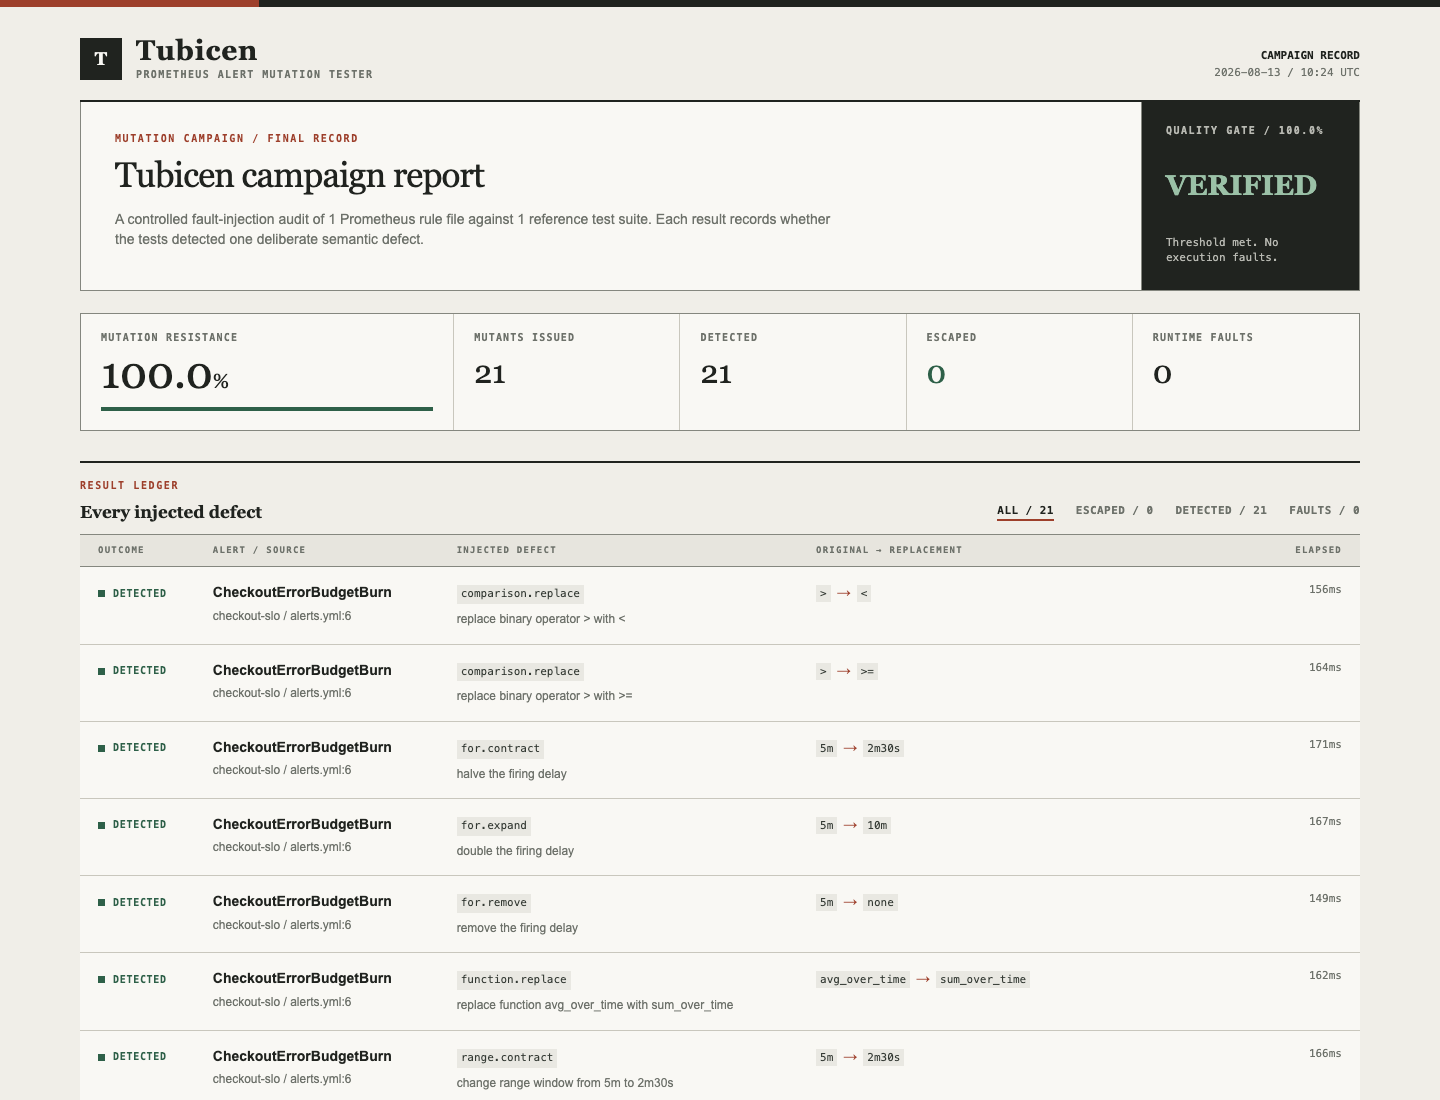
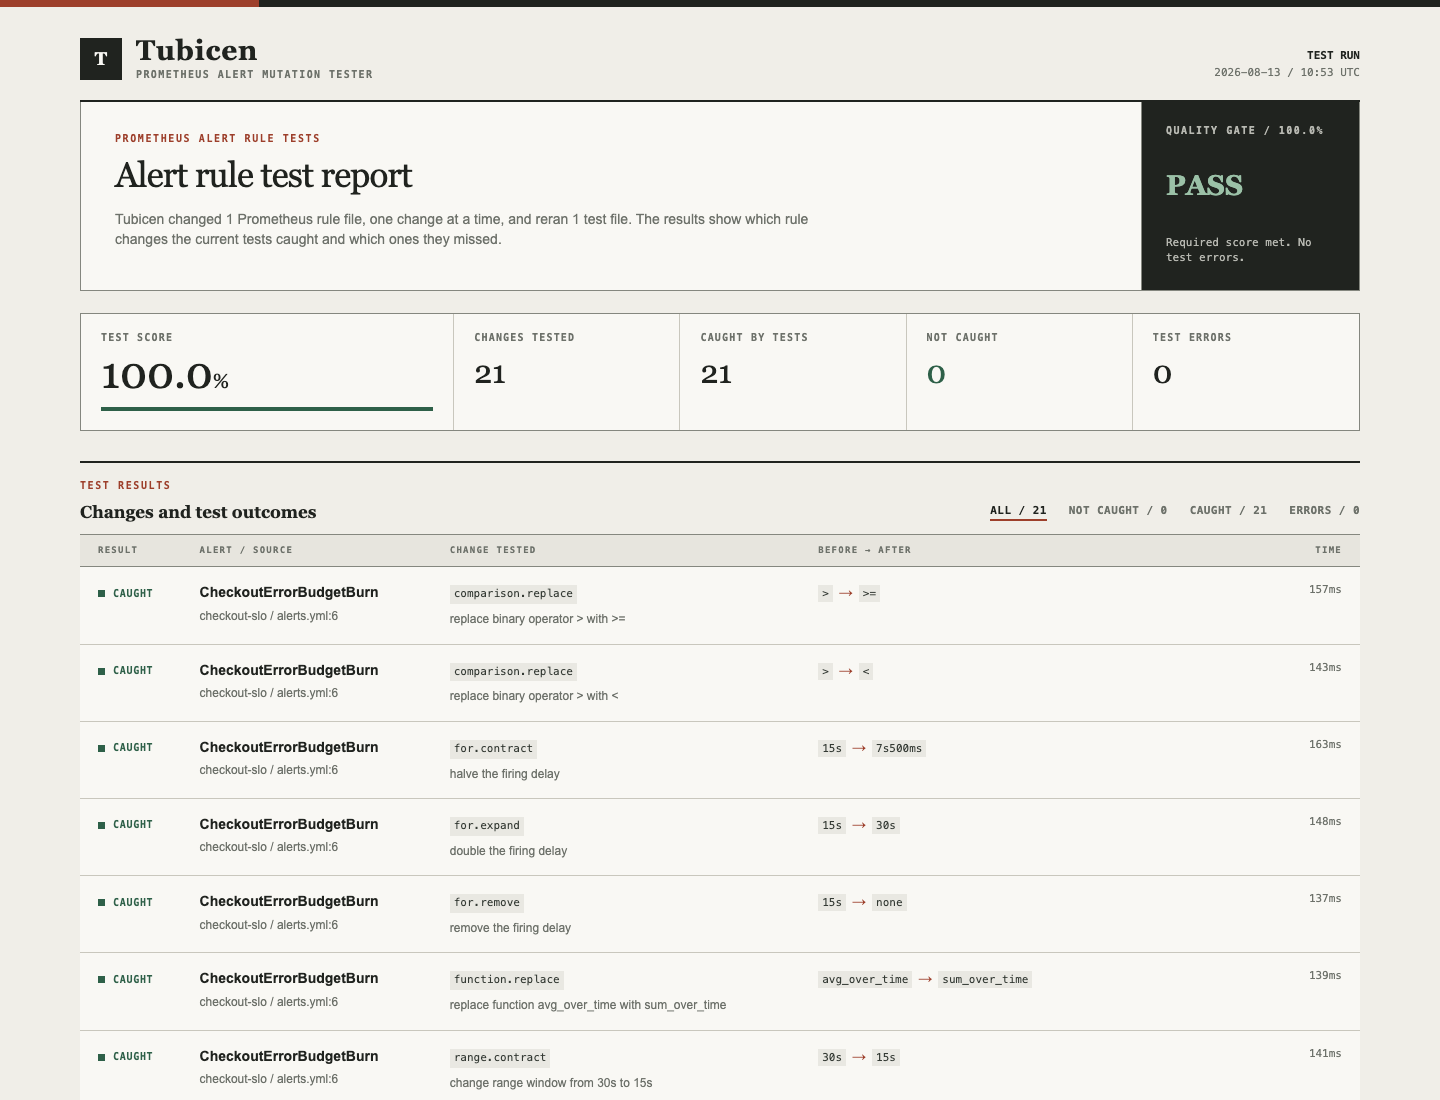
refactor: use standard test report language

diff --git a/internal/report/report.go b/internal/report/report.go
@@ -14,7 +14,7 @@ import (
 	"github.com/iahsanGill/tubicen/internal/domain"
 )
 
-// Terminal writes a compact human-readable campaign report.
+// Terminal writes a compact human-readable test report.
 func Terminal(w io.Writer, report domain.Report) error {
 	summary := report.Summary
 	verdict := "PASS"
@@ -22,7 +22,7 @@ func Terminal(w io.Writer, report domain.Report) error {
 		verdict = "FAIL"
 	}
 
-	if _, err := fmt.Fprintf(w, "\nTubicen mutation report\n\n"); err != nil {
+	if _, err := fmt.Fprintf(w, "\nTubicen alert rule test report\n\n"); err != nil {
 		return err
 	}
 	if _, err := fmt.Fprintf(w, "  Score       %6.1f%%  %s\n", summary.Score, scoreBar(summary.Score)); err != nil {
@@ -31,7 +31,7 @@ func Terminal(w io.Writer, report domain.Report) error {
 	if _, err := fmt.Fprintf(w, "  Gate        %6.1f%%  %s\n", summary.Threshold, verdict); err != nil {
 		return err
 	}
-	if _, err := fmt.Fprintf(w, "  Mutants     %6d  %d killed, %d survived, %d errors, %d timeouts\n", summary.Total, summary.Killed, summary.Survived, summary.Errors, summary.Timeouts); err != nil {
+	if _, err := fmt.Fprintf(w, "  Changes     %6d  %d caught, %d not caught, %d errors, %d timeouts\n", summary.Total, summary.Killed, summary.Survived, summary.Errors, summary.Timeouts); err != nil {
 		return err
 	}
 	if _, err := fmt.Fprintf(w, "  Duration    %6s\n", report.Duration); err != nil {
@@ -40,10 +40,10 @@ func Terminal(w io.Writer, report domain.Report) error {
 
 	problemCount := summary.Survived + summary.Errors + summary.Timeouts
 	if problemCount == 0 {
-		_, err := fmt.Fprintln(w, "\nAll generated defects were detected by the test suite.")
+		_, err := fmt.Fprintln(w, "\nAll rule changes were caught by the test suite.")
 		return err
 	}
-	if _, err := fmt.Fprint(w, "\nSurvivors and execution problems:\n\n"); err != nil {
+	if _, err := fmt.Fprint(w, "\nChanges not caught and test errors:\n\n"); err != nil {
 		return err
 	}
 	for _, result := range report.Results {
@@ -51,7 +51,11 @@ func Terminal(w io.Writer, report domain.Report) error {
 			continue
 		}
 		mutation := result.Mutation
-		if _, err := fmt.Fprintf(w, "  [%s] %s/%s  %s  (%s:%d)\n", strings.ToUpper(string(result.Status)), mutation.Group, mutation.Alert, mutation.Operator, filepath.Base(mutation.RuleFile), mutation.Line); err != nil {
+		status := strings.ToUpper(string(result.Status))
+		if result.Status == domain.StatusSurvived {
+			status = "NOT CAUGHT"
+		}
+		if _, err := fmt.Fprintf(w, "  [%s] %s/%s  %s  (%s:%d)\n", status, mutation.Group, mutation.Alert, mutation.Operator, filepath.Base(mutation.RuleFile), mutation.Line); err != nil {
 			return err
 		}
 		if _, err := fmt.Fprintf(w, "      %s\n", mutation.Description); err != nil {
@@ -155,7 +159,7 @@ func SARIF(w io.Writer, report domain.Report) error {
 	return encoder.Encode(document)
 }
 
-// HTML writes a self-contained campaign report.
+// HTML writes a self-contained test report.
 func HTML(w io.Writer, report domain.Report) error {
 	functions := template.FuncMap{
 		"upper": strings.ToUpper,
@@ -318,7 +322,7 @@ const htmlTemplate = `<!doctype html>
 <head>
   <meta charset="utf-8">
   <meta name="viewport" content="width=device-width, initial-scale=1">
-  <title>Tubicen campaign report</title>
+  <title>Tubicen alert rule test report</title>
   <style>
     :root { color-scheme:light; --ink:#20231f; --ink-2:#343a34; --paper:#f0eee8; --sheet:#f9f8f4; --line:#c9c7bd; --line-dark:#85877f; --quiet:#6d716a; --oxide:#9d3f2b; --green:#2e6048; --brass:#a87c37; }
     * { box-sizing:border-box; }
@@ -390,47 +394,47 @@ const htmlTemplate = `<!doctype html>
 <main>
   <header class="masthead">
     <div class="brand"><div class="sigil">T</div><div><p class="brand-name">Tubicen</p><p class="brand-line">Prometheus alert mutation tester</p></div></div>
-    <div class="document-id"><strong>Campaign record</strong><br>{{.StartedAt.Format "2006-01-02 / 15:04 UTC"}}</div>
+    <div class="document-id"><strong>Test run</strong><br>{{.StartedAt.Format "2006-01-02 / 15:04 UTC"}}</div>
   </header>
 
   <section class="brief">
     <div class="brief-main">
-      <p class="section-tag">Mutation campaign / final record</p>
-      <h1>Tubicen campaign report</h1>
-      <p class="lede">A controlled fault-injection audit of {{len .RuleFiles}} Prometheus rule file{{if ne (len .RuleFiles) 1}}s{{end}} against {{len .TestFiles}} reference test suite{{if ne (len .TestFiles) 1}}s{{end}}. Each result records whether the tests detected one deliberate semantic defect.</p>
+      <p class="section-tag">Prometheus alert rule tests</p>
+      <h1>Alert rule test report</h1>
+      <p class="lede">Tubicen changed {{len .RuleFiles}} Prometheus rule file{{if ne (len .RuleFiles) 1}}s{{end}}, one change at a time, and reran {{len .TestFiles}} test file{{if ne (len .TestFiles) 1}}s{{end}}. The results show which rule changes the current tests caught and which ones they missed.</p>
     </div>
     <aside class="gate">
       <span class="gate-label">Quality gate / {{printf "%.1f" .Summary.Threshold}}%</span>
-      <strong class="gate-value {{if .Summary.PassedGate}}pass{{else}}fail{{end}}">{{if .Summary.PassedGate}}VERIFIED{{else}}REJECTED{{end}}</strong>
-      <span class="gate-note">{{if .Summary.PassedGate}}Threshold met. No execution faults.{{else}}Threshold missed or execution faults present.{{end}}</span>
+      <strong class="gate-value {{if .Summary.PassedGate}}pass{{else}}fail{{end}}">{{if .Summary.PassedGate}}PASS{{else}}FAIL{{end}}</strong>
+      <span class="gate-note">{{if .Summary.PassedGate}}Required score met. No test errors.{{else}}Required score missed or test errors found.{{end}}</span>
     </aside>
   </section>
 
-  <section class="scoreboard" aria-label="Campaign summary">
-    <div class="score-cell primary"><label>Mutation resistance</label><strong>{{printf "%.1f" .Summary.Score}}<small>%</small></strong><div class="scale" aria-hidden="true"><i style="width:{{printf "%.1f" .Summary.Score}}%"></i></div></div>
-    <div class="score-cell"><label>Mutants issued</label><strong>{{.Summary.Total}}</strong></div>
-    <div class="score-cell"><label>Detected</label><strong>{{.Summary.Killed}}</strong></div>
-    <div class="score-cell"><label>Escaped</label><strong class="{{if eq .Summary.Survived 0}}zero{{end}}">{{.Summary.Survived}}</strong></div>
-    <div class="score-cell"><label>Runtime faults</label><strong>{{sum .Summary.Errors .Summary.Timeouts}}</strong></div>
+  <section class="scoreboard" aria-label="Test summary">
+    <div class="score-cell primary"><label>Test score</label><strong>{{printf "%.1f" .Summary.Score}}<small>%</small></strong><div class="scale" aria-hidden="true"><i style="width:{{printf "%.1f" .Summary.Score}}%"></i></div></div>
+    <div class="score-cell"><label>Changes tested</label><strong>{{.Summary.Total}}</strong></div>
+    <div class="score-cell"><label>Caught by tests</label><strong>{{.Summary.Killed}}</strong></div>
+    <div class="score-cell"><label>Not caught</label><strong class="{{if eq .Summary.Survived 0}}zero{{end}}">{{.Summary.Survived}}</strong></div>
+    <div class="score-cell"><label>Test errors</label><strong>{{sum .Summary.Errors .Summary.Timeouts}}</strong></div>
   </section>
 
   <section class="workspace">
     <div class="workspace-head">
-      <div><p class="section-tag">Result ledger</p><h2 class="workspace-title">Every injected defect</h2></div>
-      <nav class="filters" aria-label="Filter campaign results">
+      <div><p class="section-tag">Test results</p><h2 class="workspace-title">Changes and test outcomes</h2></div>
+      <nav class="filters" aria-label="Filter test results">
         <button class="active" data-filter="all" aria-pressed="true">All / {{.Summary.Total}}</button>
-        <button data-filter="survived" aria-pressed="false">Escaped / {{.Summary.Survived}}</button>
-        <button data-filter="killed" aria-pressed="false">Detected / {{.Summary.Killed}}</button>
-        <button data-filter="problem" aria-pressed="false">Faults / {{sum .Summary.Errors .Summary.Timeouts}}</button>
+        <button data-filter="survived" aria-pressed="false">Not caught / {{.Summary.Survived}}</button>
+        <button data-filter="killed" aria-pressed="false">Caught / {{.Summary.Killed}}</button>
+        <button data-filter="problem" aria-pressed="false">Errors / {{sum .Summary.Errors .Summary.Timeouts}}</button>
       </nav>
     </div>
     <div class="table-wrap">
       <table>
-        <thead><tr><th>Outcome</th><th>Alert / source</th><th>Injected defect</th><th>Original → replacement</th><th>Elapsed</th></tr></thead>
+        <thead><tr><th>Result</th><th>Alert / source</th><th>Change tested</th><th>Before → after</th><th>Time</th></tr></thead>
         <tbody>
         {{range .Results}}
           <tr data-status="{{class .Status}}">
-            <td><span class="status {{class .Status}}">{{if eq (class .Status) "killed"}}DETECTED{{else if eq (class .Status) "survived"}}ESCAPED{{else}}{{upper (class .Status)}}{{end}}</span></td>
+            <td><span class="status {{class .Status}}">{{if eq (class .Status) "killed"}}CAUGHT{{else if eq (class .Status) "survived"}}NOT CAUGHT{{else}}{{upper (class .Status)}}{{end}}</span></td>
             <td><div class="alert">{{.Mutation.Alert}}</div><div class="secondary">{{.Mutation.Group}} / {{base .Mutation.RuleFile}}:{{.Mutation.Line}}</div></td>
             <td><code class="operator">{{.Mutation.Operator}}</code><div class="secondary">{{.Mutation.Description}}</div></td>
             <td class="change"><code>{{.Mutation.Original}}</code><span class="arrow">→</span><code>{{.Mutation.Replacement}}</code></td>

diff --git a/internal/report/report_test.go b/internal/report/report_test.go
@@ -32,7 +32,7 @@ func TestRenderers(t *testing.T) {
 		{name: "json", render: func(w interfaceWriter, r domain.Report) error { return JSON(w, r) }, want: `"schema_version": "1.0"`},
 		{name: "junit", render: func(w interfaceWriter, r domain.Report) error { return JUnit(w, r) }, want: `<failure message="mutant survived`},
 		{name: "sarif", render: func(w interfaceWriter, r domain.Report) error { return SARIF(w, r) }, want: `"version": "2.1.0"`},
-		{name: "html", render: func(w interfaceWriter, r domain.Report) error { return HTML(w, r) }, want: `Tubicen campaign report`},
+		{name: "html", render: func(w interfaceWriter, r domain.Report) error { return HTML(w, r) }, want: `Alert rule test report`},
 	}
 	for _, test := range tests {
 		test := test
@@ -62,7 +62,7 @@ func TestTerminalShowsSurvivor(t *testing.T) {
 	if err := Terminal(&output, sampleReport()); err != nil {
 		t.Fatal(err)
 	}
-	if !strings.Contains(output.String(), "[SURVIVED]") || !strings.Contains(output.String(), "50.0%") {
+	if !strings.Contains(output.String(), "[NOT CAUGHT]") || !strings.Contains(output.String(), "50.0%") {
 		t.Fatalf("unexpected terminal report:\n%s", output.String())
 	}
 }

diff --git a/cmd/tubicen/main_test.go b/cmd/tubicen/main_test.go
@@ -100,7 +100,7 @@ exit 0
 	if code != 1 {
 		t.Fatalf("exit code = %d, want 1; stderr = %s\nstdout = %s", code, stderr.String(), stdout.String())
 	}
-	if !strings.Contains(stdout.String(), "FAIL") || !strings.Contains(stdout.String(), "survived") {
+	if !strings.Contains(stdout.String(), "FAIL") || !strings.Contains(stdout.String(), "not caught") {
 		t.Fatalf("missing failed gate report:\n%s", stdout.String())
 	}
 }
